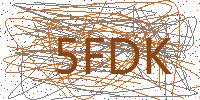
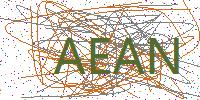
异步验证码画出来了，但是是大坑

diff --git a/Captcha/Captcha.cs b/Captcha/Captcha.cs
@@ -6,12 +6,169 @@ using System.IO;
 using System.Linq;
 using System.Runtime.Serialization;
 using System.Text;
+using System.Threading;
 using System.Threading.Tasks;
 
 namespace Captcha
 {
     class Captcha
     {
+        public delegate Graphics DraingMap(Bitmap image);
+        #region CaptchaAsync
+        public static void CaptchaAsync()
+        {
+            Thread thread = new Thread(new ThreadStart(Captcha.RefreshCaptcha));
+            Bitmap image = new Bitmap(200, 100);
+            Graphics drawing = Graphics.FromImage(image);
+            drawing.Clear(Color.White);
+            Random random = new Random();
+            //int random_0_To_200 = random.Next(0, 200);
+            //int random_0_To_100 = random.Next(0, 100);
+            //2.在一个任务（Task）中生成画布
+            //DraingMap draingMap = _draingMap;
+
+            //其实这里做异步的画板生成有点坑后面的。
+            _draingMap(image);
+
+
+            ///3.使用生成的画布，用两个任务完成：
+            ///1.在画布上添加干扰线条
+            ///2.在画布上添加干扰点
+            ///
+
+            _Pixel(image, random);
+            _line(drawing, random);
+            _captcha(random, drawing, image);
+
+
+            //4.将生成的验证码图片异步的存入文件
+            //5.能捕获抛出的若干异常，并相应的处理
+            //6.以上作业，需要在控制台输出线程和Task的Id，以演示异步并发的运行。
+            _saveImage(image);
+        }
+
+        /// <summary>
+        /// 生成画布
+        /// </summary>
+        /// <param name="image"></param>
+        private static async /*Task<Graphics>*/ void _draingMap(Bitmap image)
+        {
+            Graphics drawing;
+
+            /*Graphics resule = */
+            await Task<Graphics>.Run(() =>
+            {
+                Console.WriteLine("当前线程ID是： " + Thread.CurrentThread.ManagedThreadId);
+
+                drawing = Graphics.FromImage(image);
+            });
+            //return resule;
+        }
+
+        /// <summary>
+        /// 生成像素点
+        /// </summary>
+        /// <param name="image"></param>
+        /// <param name="random"></param>
+        /// <returns></returns>
+        private static async Task<Bitmap> _Pixel(Bitmap image, Random random)
+        {
+            await Task<Graphics>.Run(() =>
+            {
+                for (int i = 0; i < 25; i++)
+                {
+                    image.SetPixel(random.Next(0, 200), random.Next(0, 200), Color.BurlyWood);
+                    image.SetPixel(random.Next(0, 200), random.Next(0, 200), Color.IndianRed);
+                    image.SetPixel(random.Next(0, 200), random.Next(0, 200), Color.DarkCyan);
+                    image.SetPixel(random.Next(0, 200), random.Next(0, 200), Color.DarkViolet);
+                }
+            });
+            return image;
+        }
+        /// <summary>
+        /// 生成干扰线条
+        /// </summary>
+        /// <param name="drawing"></param>
+        /// <param name="random"></param>
+        /// <returns></returns>
+        private static async Task<Graphics> _line(Graphics drawing, Random random)
+        {
+            await Task<Graphics>.Run(() =>
+            {
+                for (int i = 0; i < 25; i++)
+                {
+                    Console.WriteLine("当前线程ID是： " + Thread.CurrentThread.ManagedThreadId);
+
+                    drawing.DrawCurve(new Pen(new SolidBrush(Color.Gray), 1),
+                        new Point[] {
+                            new Point(random.Next(0,200),random.Next(0,100)),
+                            new Point(random.Next(0,200),random.Next(0,100)),
+                            new Point(random.Next(0,200), random.Next(0,100)) });
+
+                    drawing.DrawCurve(new Pen(new SolidBrush(Color.Chocolate), 1),
+                        new Point[] {
+                            new Point(random.Next(0,200),random.Next(0,100)),
+                            new Point(random.Next(0,200),random.Next(0,100)),
+                            new Point(random.Next(0,200), random.Next(0,100)) });
+                }
+            });
+            return drawing;
+        }
+        /// <summary>
+        /// 生成随机验证码
+        /// </summary>
+        /// <param name="random"></param>
+        /// <param name="drawing"></param>
+        /// <param name="image"></param>
+        /// <returns></returns>
+        private static async Task<Graphics> _captcha(Random random, Graphics drawing, Bitmap image)
+        {
+            //随机验证码。
+            await Task<Graphics>.Run(() =>
+            {
+                Console.WriteLine("当前线程ID是： " + Thread.CurrentThread.ManagedThreadId);
+
+                string subCaptcha = "1234567890QAZWSXEDCRFVTGBYHNUJMIKOLP";
+                string captcha = "";
+                for (int i = 0; i < 4; i++)
+                {
+                    captcha = captcha + subCaptcha.Substring(random.Next(subCaptcha.Length), 1);
+                }
+                drawing = Graphics.FromImage(image);
+                drawing.DrawString(
+                    captcha, new Font("微软雅黑", 35),
+                    new SolidBrush(Color.SaddleBrown), 45, 25);
+            });
+            return drawing;
+        }
+        /// <summary>
+        /// 保存
+        /// </summary>
+        /// <param name="image"></param>
+        private static async void _saveImage(Bitmap image)
+        {
+            await Task<Graphics>.Run(() =>
+            {
+                Console.WriteLine("当前线程ID是： " + Thread.CurrentThread.ManagedThreadId);
+                try
+                {
+                    Console.WriteLine("当前线程ID是： " + Thread.CurrentThread.ManagedThreadId);
+                    image.Save(@"C:\Users\Administrator\source\repos\luckstack3\Captcha\CaptchaAsync.jpg",
+                                        ImageFormat.Jpeg);
+                    throw new Exception("人家大佬的作业要求");
+                }
+                catch (Exception)
+                {
+                    Console.WriteLine("我是一只异常，只是输出给你看，");
+                }
+            });
+        }
+        #endregion
+
+
+
+
+
         /// <summary>
         ///  参考一起帮的登录页面，绘制一个验证码图片，存放到当前项目中。验证码应包含：随机字符串,
         ///  混淆用的各色像素点,混淆用的直线（或曲线）
@@ -24,6 +181,7 @@ namespace Captcha
             drawing.Clear(Color.White);
 
             Random random = new Random();
+
             for (int i = 0; i < 200; i++)
             {
                 image.SetPixel(random.Next(0, 200), random.Next(0, 100), Color.BurlyWood);
@@ -33,15 +191,21 @@ namespace Captcha
             }
             for (int i = 0; i < 25; i++)
             {
-                drawing.DrawCurve(new Pen(new SolidBrush(Color.Gray), 1), new Point[] { new Point
-                    (random.Next(0, 200), random.Next(0, 100)), new Point(random.Next(0, 200),
-                    random.Next(0, 100)),new Point(random.Next(0, 200), random.Next(0, 100)) });
+                drawing.DrawCurve(new Pen(new SolidBrush(Color.Gray), 1),
+                    new Point[]
+                    {
+                        new Point(random.Next(0, 200), random.Next(0, 100)),
+                        new Point(random.Next(0, 200), random.Next(0, 100)),
+                        new Point(random.Next(0, 200), random.Next(0, 100))
+                    });
 
-                drawing.DrawCurve(new Pen(new SolidBrush(Color.Chocolate), 1), new Point[] { new Point
-                    (random.Next(0, 200), random.Next(0, 100)), new Point(random.Next(0, 200), random.Next(0, 100)), new Point(random.Next(0, 200), random.Next(0, 100)) });
+                drawing.DrawCurve(new Pen(new SolidBrush(Color.Chocolate), 1), new Point[]
+                    {
+                        new Point(random.Next(0, 200), random.Next(0, 100)),
+                        new Point(random.Next(0, 200), random.Next(0, 100)),
+                        new Point(random.Next(0, 200), random.Next(0, 100))
+                    });
             }
-
-
             string subCaptcha = "1234567890QAZWSXEDCRFVTGBYHNUJMIKOLP";
             string captcha = "";
             for (int i = 0; i < 4; i++)
@@ -49,8 +213,9 @@ namespace Captcha
                 captcha = captcha + subCaptcha.Substring(random.Next(subCaptcha.Length), 1);
             }
 
-            drawing.DrawString(captcha, new Font("微软雅黑", 35),
-                new SolidBrush(Color.SaddleBrown), 45, 25);
+            drawing.DrawString(captcha,
+                new Font("微软雅黑", 35),
+                new SolidBrush(Color.DarkOliveGreen), 45, 25);
             image.Save(@"C:\Users\Administrator\source\repos\luckstack3\Captcha\Captcha.jpg", ImageFormat.Jpeg);
         }
 

diff --git a/Captcha/ProgramNetFromWork.cs b/Captcha/ProgramNetFromWork.cs
@@ -15,23 +15,99 @@ namespace Captcha
 
         static void Main(string[] args)
         {
-
-
+            Captcha.RefreshCaptcha();
             #region 2020.4.16异步作业
+
+            Captcha.CaptchaAsync();
+
+
             //重构之前的验证码作业：
             //1.创建一个新的前台线程（Thread），在这个线程上运行生成随机字符串的代码
-            Thread thread = new Thread(new ThreadStart(Captcha.RefreshCaptcha));
+            //Thread thread = new Thread(new ThreadStart(Captcha.RefreshCaptcha));
+            //Bitmap image = new Bitmap(200, 100); ;
+            //Graphics drawing;
 
-            //2.在一个任务（Task）中生成画布
-            Action draingMap = () =>
-            {
-                Bitmap image = new Bitmap(200, 100);
-                Graphics drawing = Graphics.FromImage(image);
-            };
-            Task task = new Task(draingMap);
+            //Random random = new Random();
+            //int random_0_To_200 = random.Next(0, 200);
+            //int random_0_To_100 = random.Next(0, 100);
+            ////2.在一个任务（Task）中生成画布
+            //Action draingMap = () =>
+            //{
+            //    Console.WriteLine("当前线程ID是： " + Thread.CurrentThread.ManagedThreadId);
+
+            //    drawing = Graphics.FromImage(image);
+            //};
+            //Task task = new Task(draingMap);
+
+            /////3.使用生成的画布，用两个任务完成：
+            /////1.在画布上添加干扰线条
+            /////2.在画布上添加干扰点
+            /////
+            //Parallel.Invoke(() =>
+            //{
+            //    Console.WriteLine("当前线程ID是： " + Thread.CurrentThread.ManagedThreadId);
+
+            //    for (int i = 0; i < 200; i++)
+            //    {
+            //        image.SetPixel(random_0_To_200, random_0_To_200, Color.BurlyWood);
+            //        image.SetPixel(random_0_To_200, random_0_To_200, Color.IndianRed);
+            //        image.SetPixel(random_0_To_200, random_0_To_200, Color.DarkCyan);
+            //        image.SetPixel(random_0_To_200, random_0_To_200, Color.DarkViolet);
+            //    }
+
+            //},
+            //() =>
+            //{
+            //    drawing = Graphics.FromImage(image);
+            //    for (int i = 0; i < 25; i++)
+            //    {
+            //        Console.WriteLine("当前线程ID是： " + Thread.CurrentThread.ManagedThreadId);
+
+            //        drawing.DrawCurve(new Pen(new SolidBrush(Color.Gray), 1), 
+            //            new Point[] { 
+            //                new Point(random_0_To_200,random_0_To_100), 
+            //                new Point(random_0_To_200,random_0_To_200),
+            //                new Point(random_0_To_200, random_0_To_100) });
+
+            //        drawing.DrawCurve(new Pen(new SolidBrush(Color.Chocolate), 1),
+            //            new Point[] {
+            //                new Point(random_0_To_200,random_0_To_100),
+            //                new Point(random_0_To_200,random_0_To_200),
+            //                new Point(random_0_To_200, random_0_To_100) });
+            //    }
+            //});
+            ////随机验证码。
+            //string subCaptcha = "1234567890QAZWSXEDCRFVTGBYHNUJMIKOLP";
+            //string captcha = "";
+            //for (int i = 0; i < 4; i++)
+            //{
+            //    captcha = captcha + subCaptcha.Substring(random.Next(subCaptcha.Length), 1);
+            //}
+            //drawing = Graphics.FromImage(image);
+            //drawing.DrawString(
+            //    captcha, new Font("微软雅黑", 35),
+            //    new SolidBrush(Color.SaddleBrown), 45, 25);
+            ////4.将生成的验证码图片异步的存入文件
+            ////5.能捕获抛出的若干异常，并相应的处理
+            ////6.以上作业，需要在控制台输出线程和Task的Id，以演示异步并发的运行。
+            //Parallel.Invoke(() =>
+            //{
+            //    try
+            //    {
+            //        Console.WriteLine("当前线程ID是： "+Thread.CurrentThread.ManagedThreadId);
+            //        image.Save(@"C:\Users\Administrator\source\repos\luckstack3\Captcha\CaptchaAsync.jpg",
+            //                            ImageFormat.Jpeg);
+            //        throw new Exception("人家大佬的作业要求");
+            //    }
+            //    catch (Exception)
+            //    {
+            //        Console.WriteLine("我是一只异常，只是输出给你看，");
+            //    }
+
+            //});
             #endregion
 
-            #region MyRegion
+            #region Email作业--之没写出来
             /// 现有一个txt文件，里面存放了若干email地址，使用分号（;）或者换行进行了分隔。
             /// 请删除其中重复的email地址，并按每30个email一行（行内用;分隔）重新组织
 
